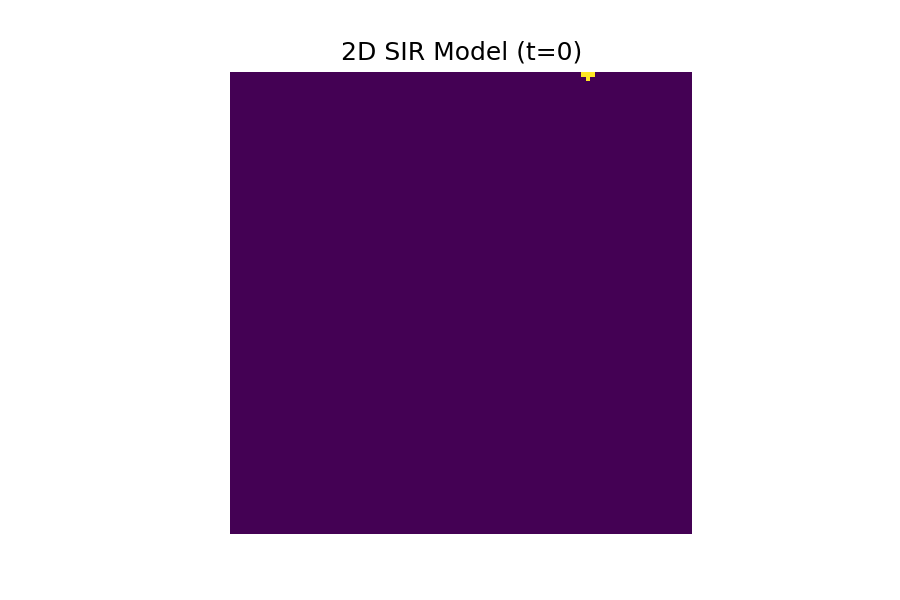
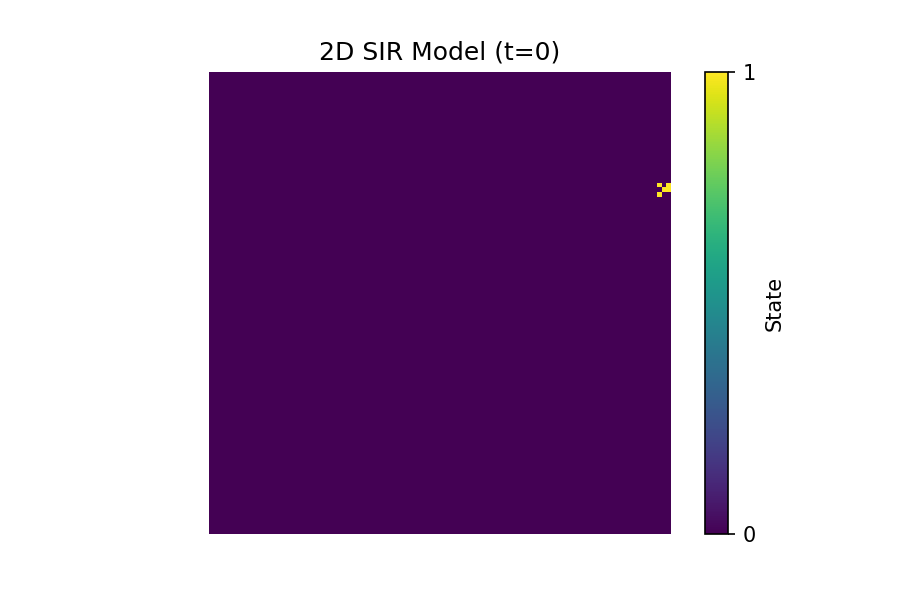
Added the color label in the output pic

diff --git a/Practical6/spatial_SIR.py b/Practical6/spatial_SIR.py
@@ -83,11 +83,9 @@ for t in range(TIME_STEPS + 1):
     # Step 3: Save images at key time points
     if t in SAVE_TIMES:
         plt.figure(figsize=(6, 4), dpi=150)
-        plt.imshow(
-            population,
-            cmap='viridis',    # Color map
-            interpolation='nearest'
-        )
+        plt.imshow(population,cmap='viridis',interpolation='nearest')
+        img = plt.imshow(population,cmap='viridis',interpolation='nearest')
+        plt.colorbar(img, ticks=[0, 1, 2], label='State')
         plt.title(f'2D SIR Model (t={t})')
         plt.axis('off')
         plt.savefig(f'spatial_SIR_t{t}.png')
